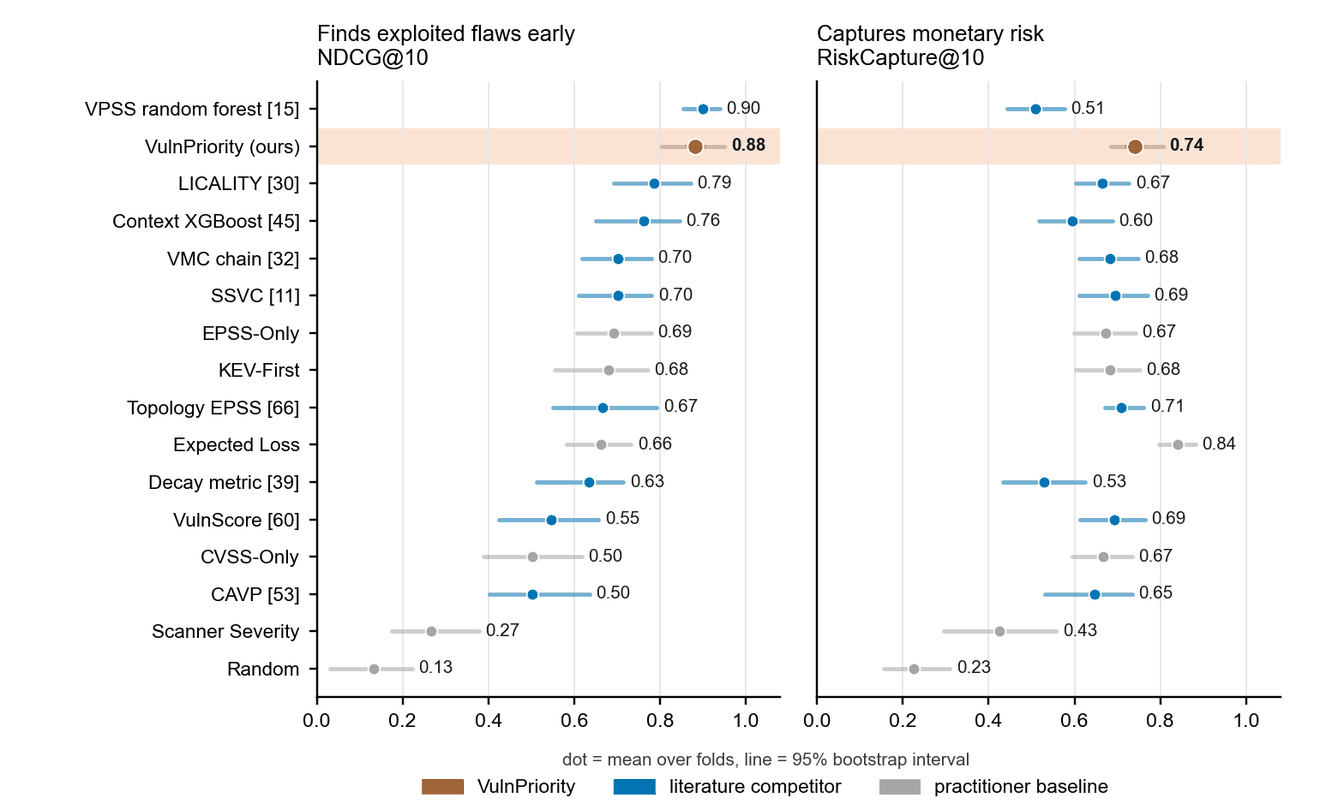
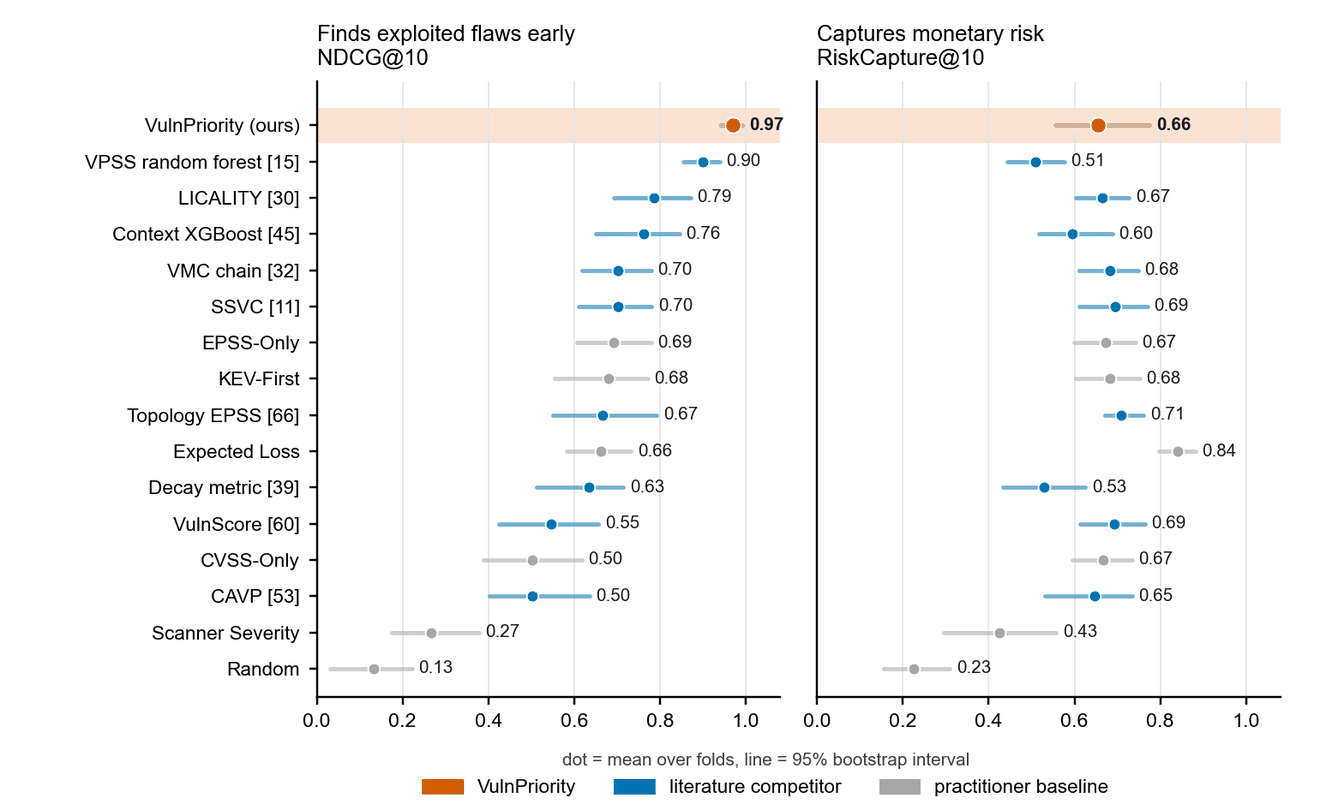
Report the improved ranker in the README
NDCG@10 0.970 against 0.900 for the best literature competitor, first
under the strict protocol too, and the 26-week simulation now prevents
15 of 145 exploited flaws. Also corrects the earlier claim that it
captured the most monetary risk: plain expected-loss ordering captures
more, and the table now shows it.

diff --git a/README.md b/README.md
@@ -98,25 +98,28 @@ practitioner baselines and nine methods re-implemented from the research literat
 
 | Ranker | Finds exploited flaws early (NDCG@10) | Monetary risk in top 10 |
 |---|---|---|
-| **VulnPriority** | 0.883 | **0.741** |
-| VPSS random forest (Hore et al.) | **0.900** | 0.508 |
+| **VulnPriority** | **0.970** | 0.655 |
+| VPSS random forest (Hore et al.) | 0.900 | 0.508 |
 | LICALITY (Zeng et al.) | 0.785 | 0.665 |
 | VMC chain (Shimizu & Hashimoto) | 0.702 | 0.683 |
 | EPSS only | 0.693 | 0.673 |
+| Expected loss, no learning | 0.663 | **0.840** |
 | CVSS only | 0.503 | 0.667 |
 
-VulnPriority is level with the best competitor at finding exploited flaws (the confidence
-intervals overlap) and captures the most monetary risk. Under a stricter test that gives no
-credit for answers a ranker can read straight from KEV, it ranks first (0.610 against 0.573).
+VulnPriority finds exploited flaws earliest of all sixteen methods, clearly ahead of the best
+competitor (95% intervals 0.942–0.993 against 0.855–0.939). It stays first under a stricter
+test that gives no credit for answers a ranker can read straight from KEV (0.672 against
+0.573). The trade-off is monetary risk: ordering purely by modelled expected loss puts more of
+it in the top ten (0.840), as do several simpler orderings.
 
 <p align="center">
   <img src="assets/readme/literature-comparison.png" width="760"
        alt="All sixteen rankers: NDCG@10 and RiskCapture@10 with 95% bootstrap intervals">
 </p>
 
-Over a simulated 26 weeks with 20 engineering hours a week, it fixed 12 of 145 exploited flaws
+Over a simulated 26 weeks with 20 engineering hours a week, it fixed 15 of 145 exploited flaws
 before they were first exploited (1 of 145 for CVSS, EPSS or KEV ordering), and cut the time
-exploited flaws stayed open by 32.5% compared with CVSS.
+exploited flaws stayed open by 35.6% compared with CVSS.
 
 To reproduce the comparison on a finished run:
 
